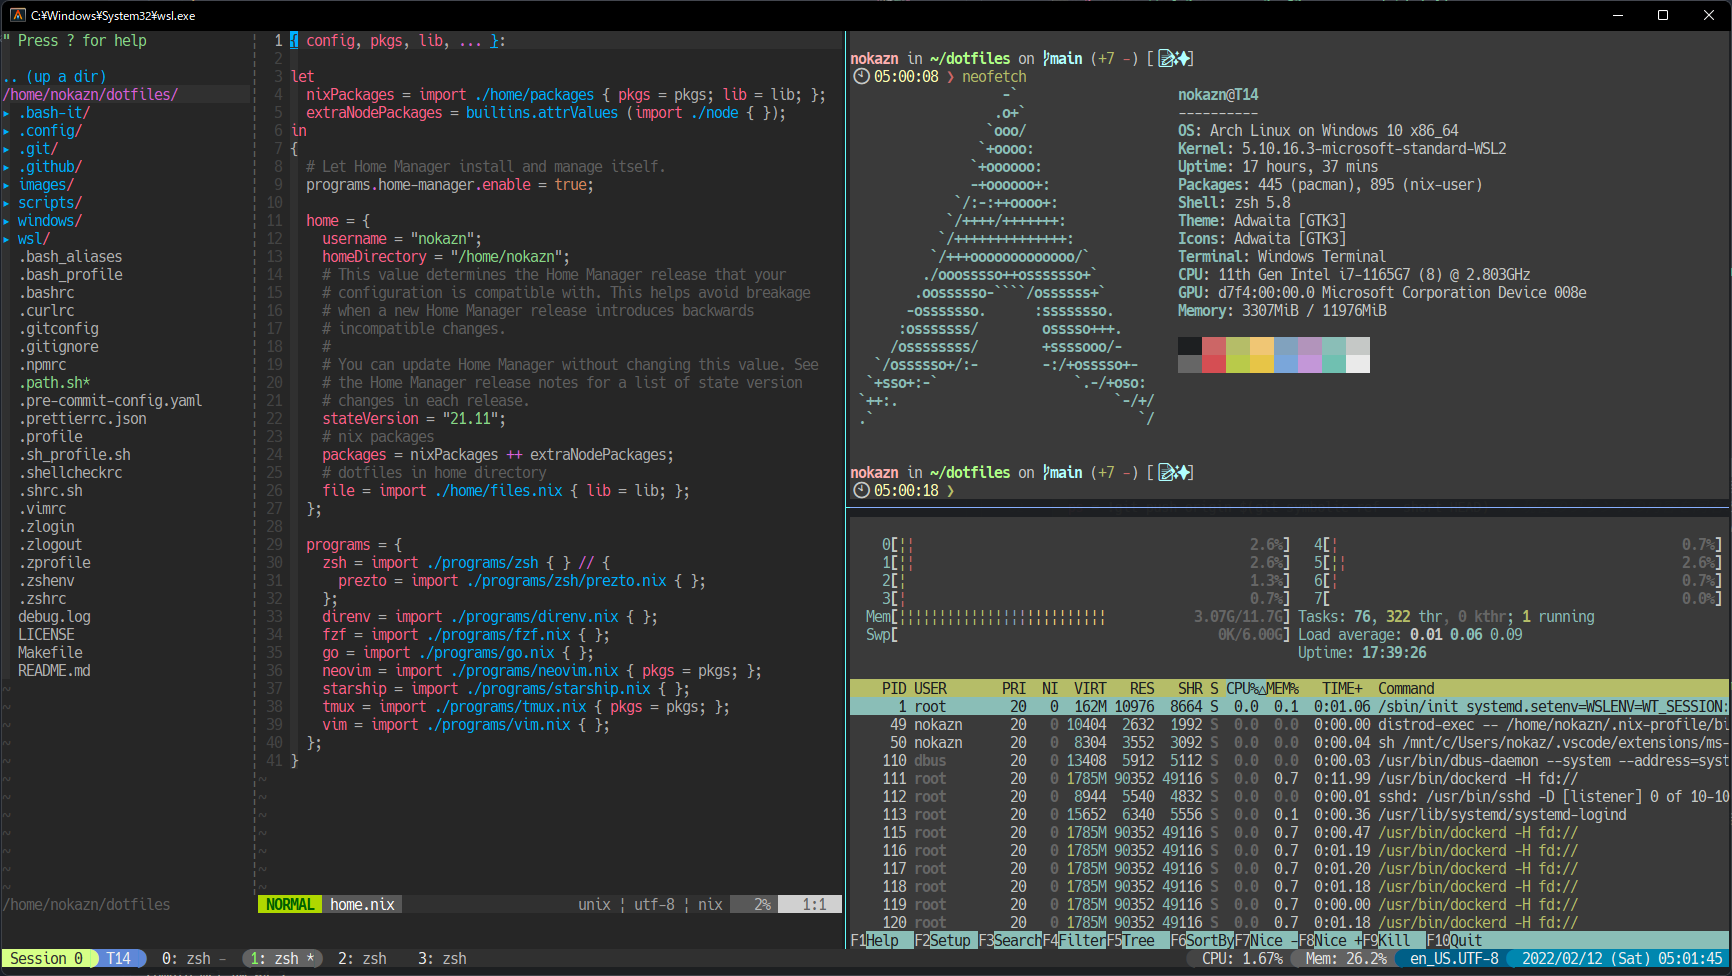
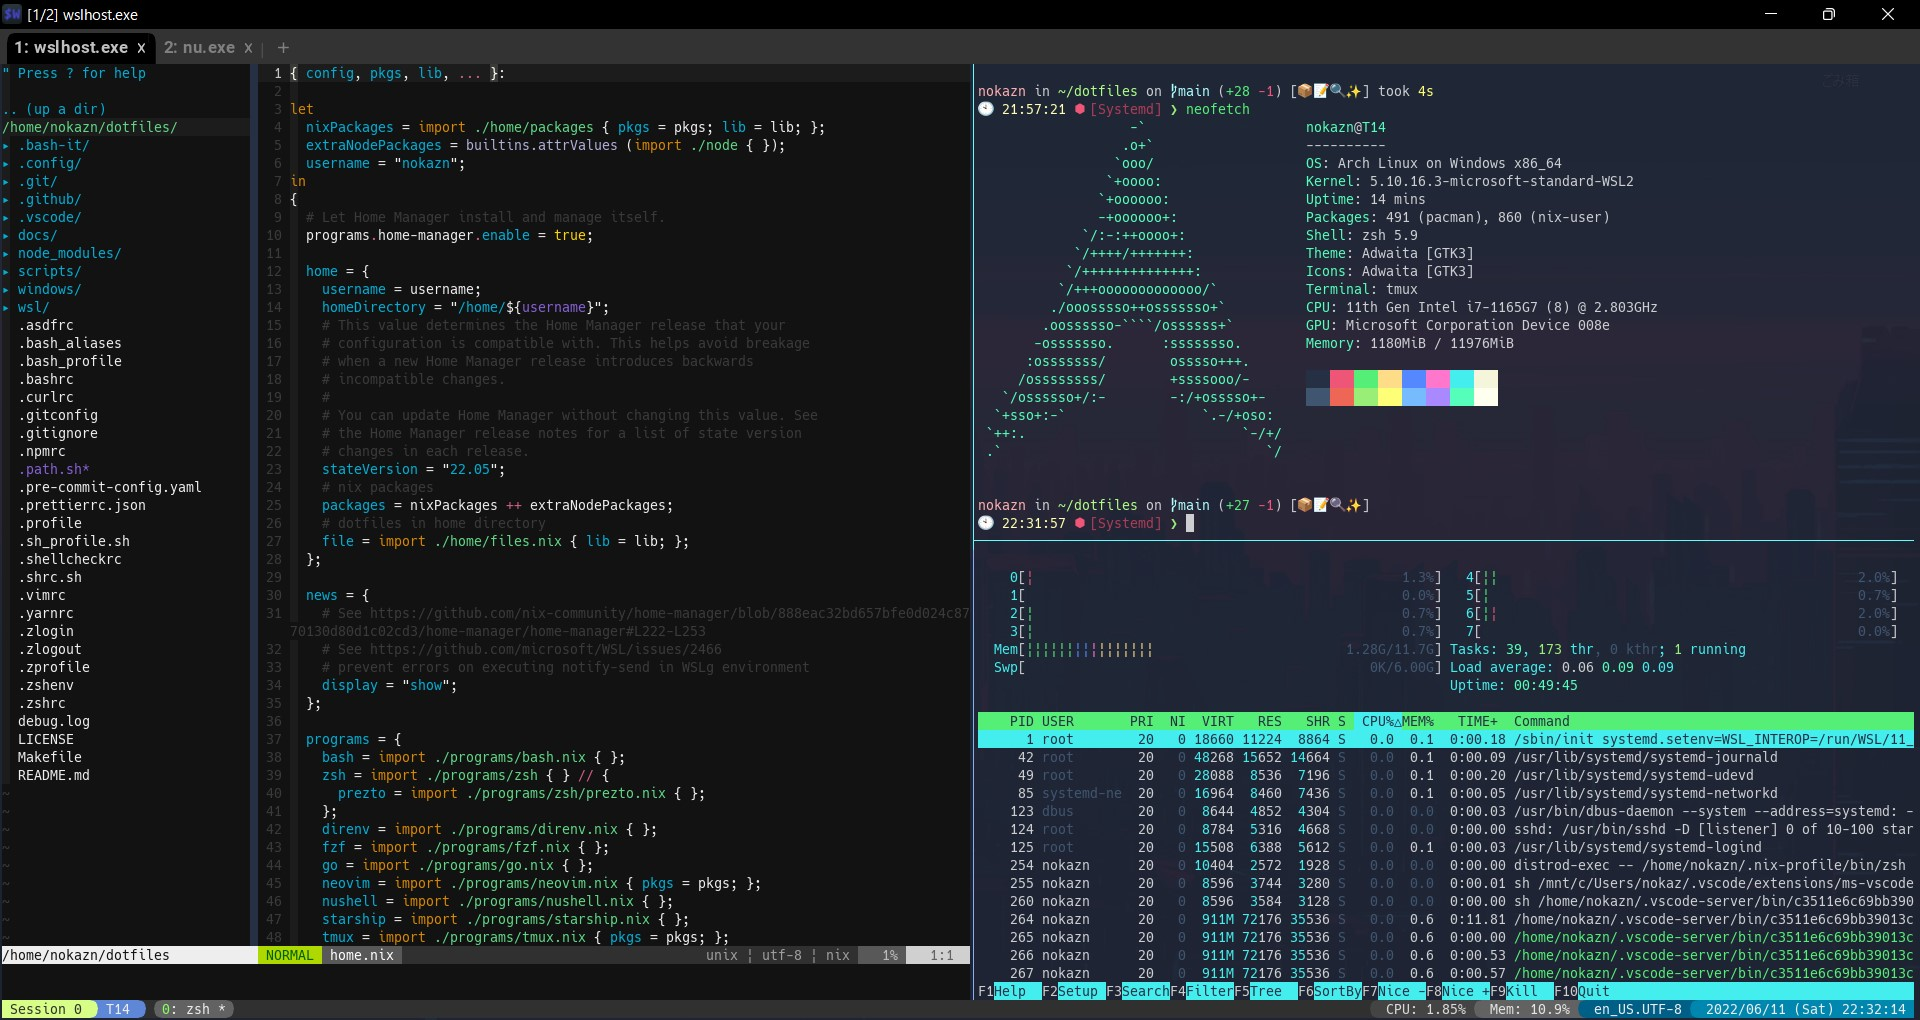
feat: update vim colorscheme

diff --git a/README.md b/README.md
@@ -25,7 +25,6 @@ If a existing file conflicts with the symbolic link, this is backed up.
   - `add-nix` - add Nix
   - `add-home-manager` - add home-manager
   - `add-dein-vim` - add dein.vim
-  - `add-bash-it` - Add Bash-it
 - `home-manger-switch` - run `home-manager switch` command
 - `install`
   - `install-asdf-langs` - install asdf-vm (Node.js, yarn, Terraform)
